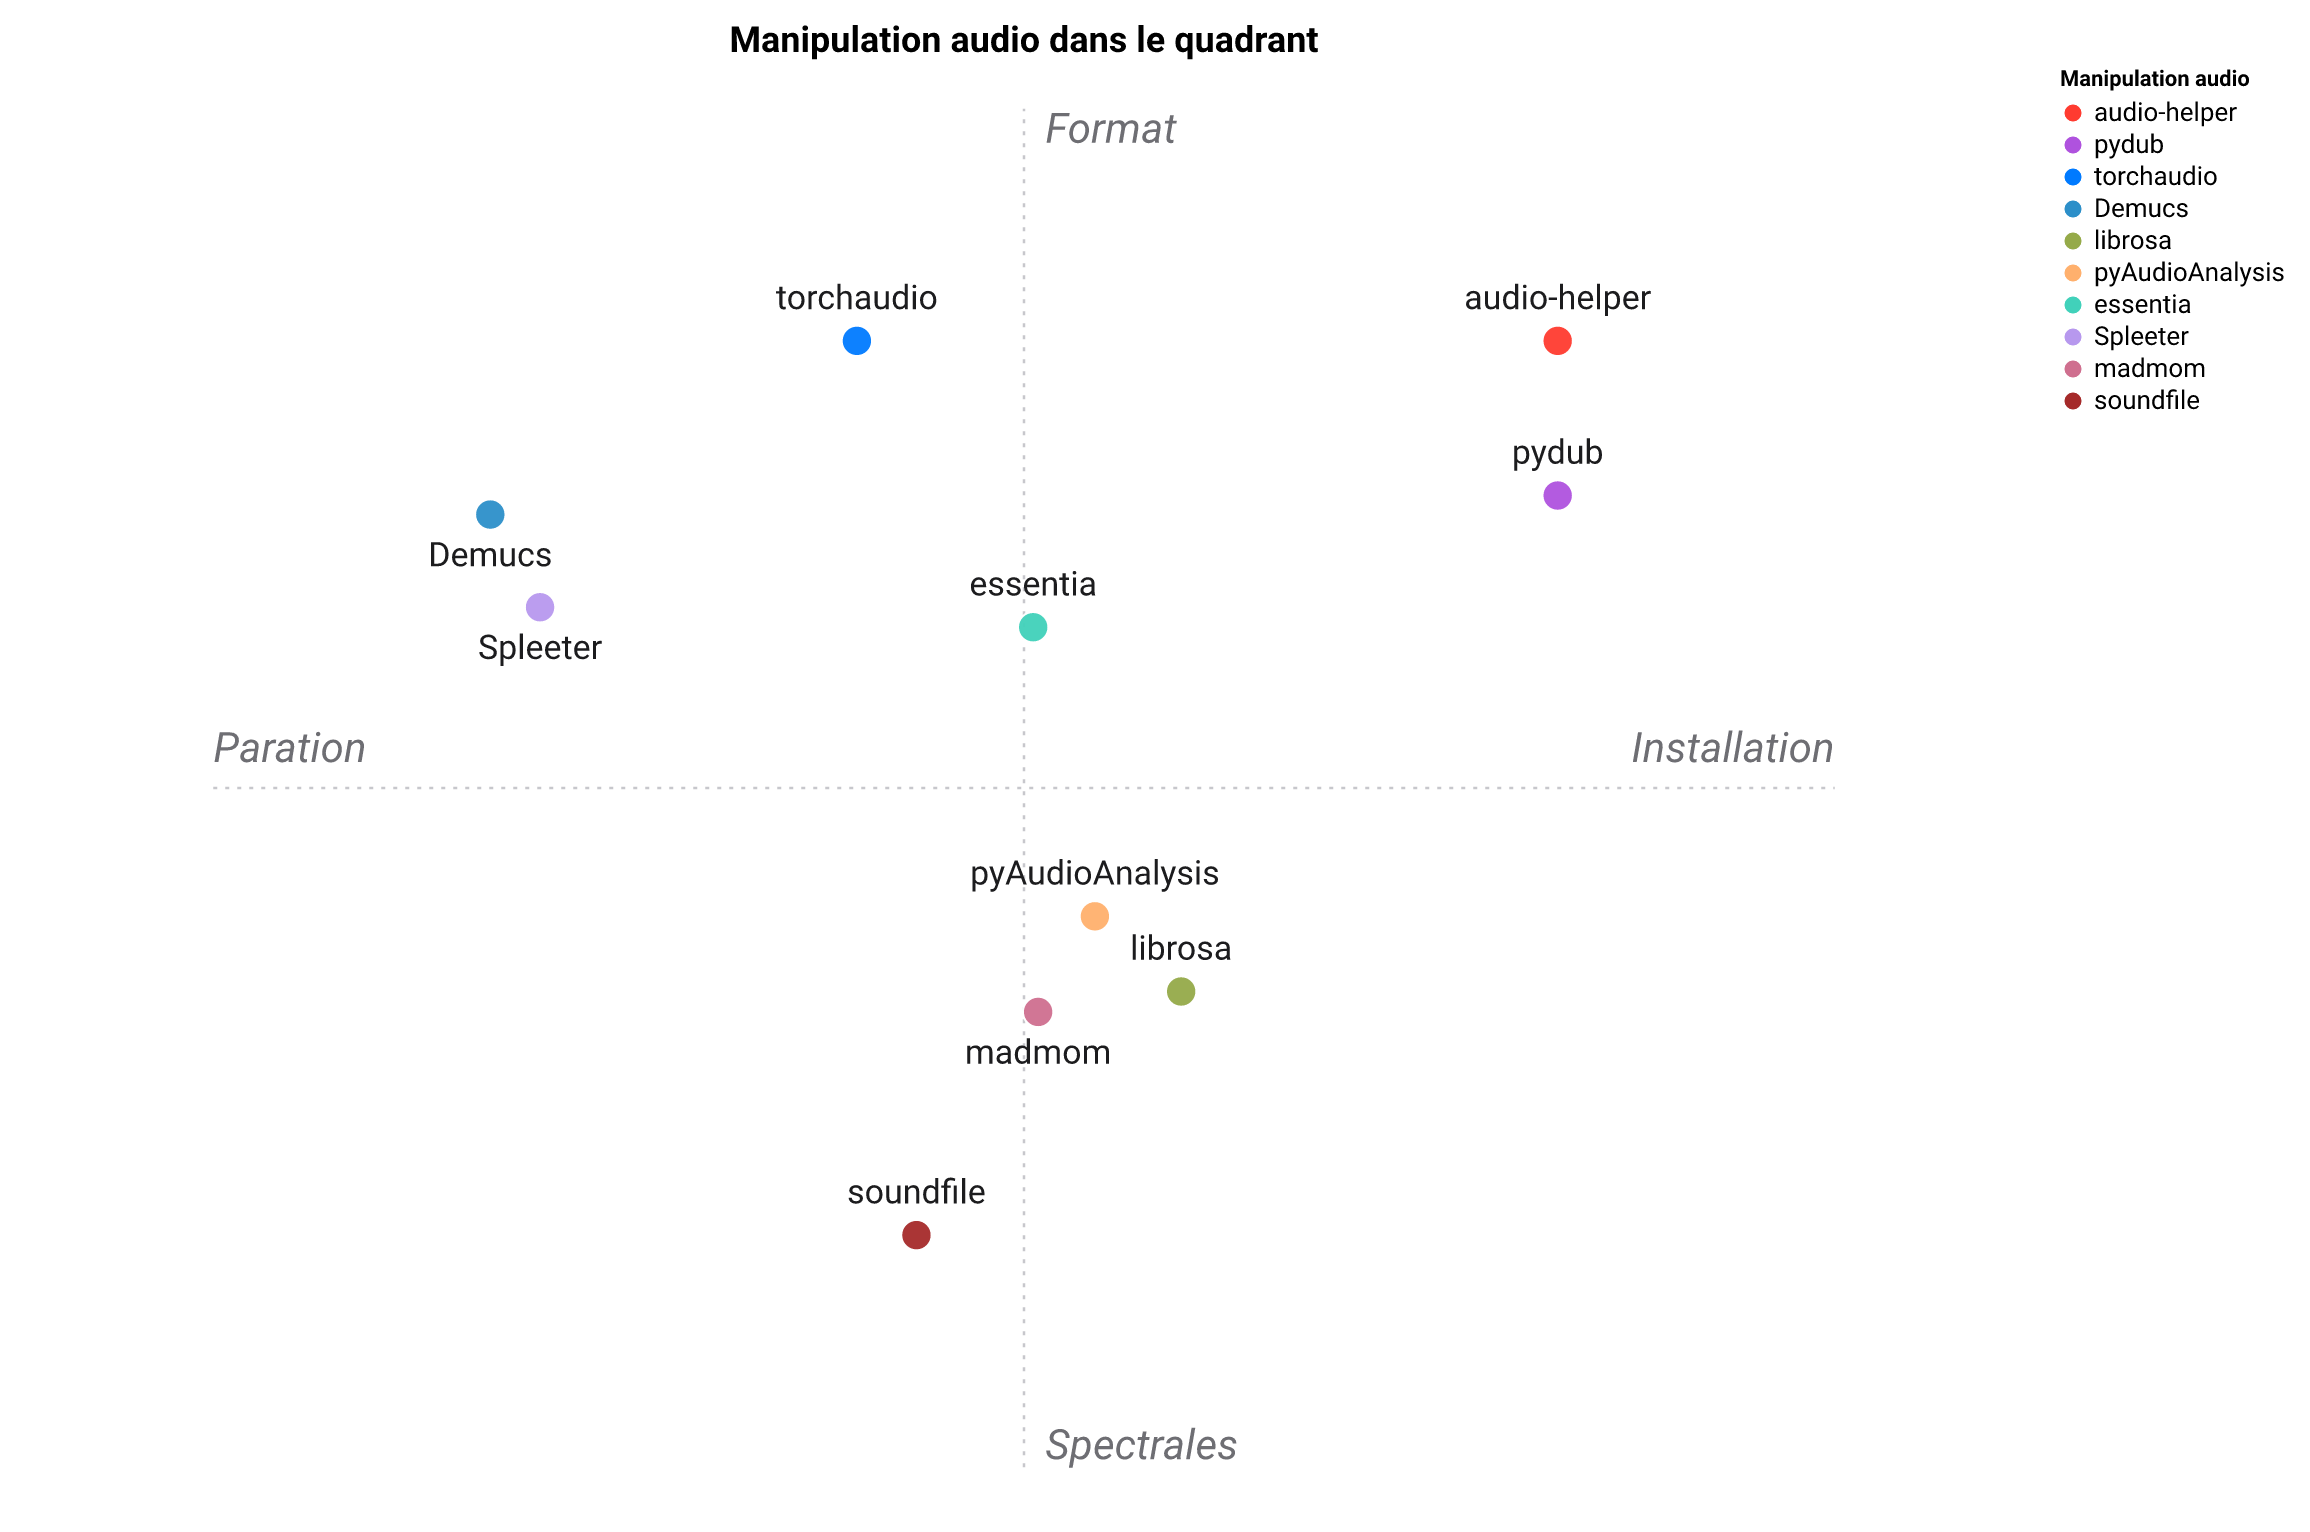
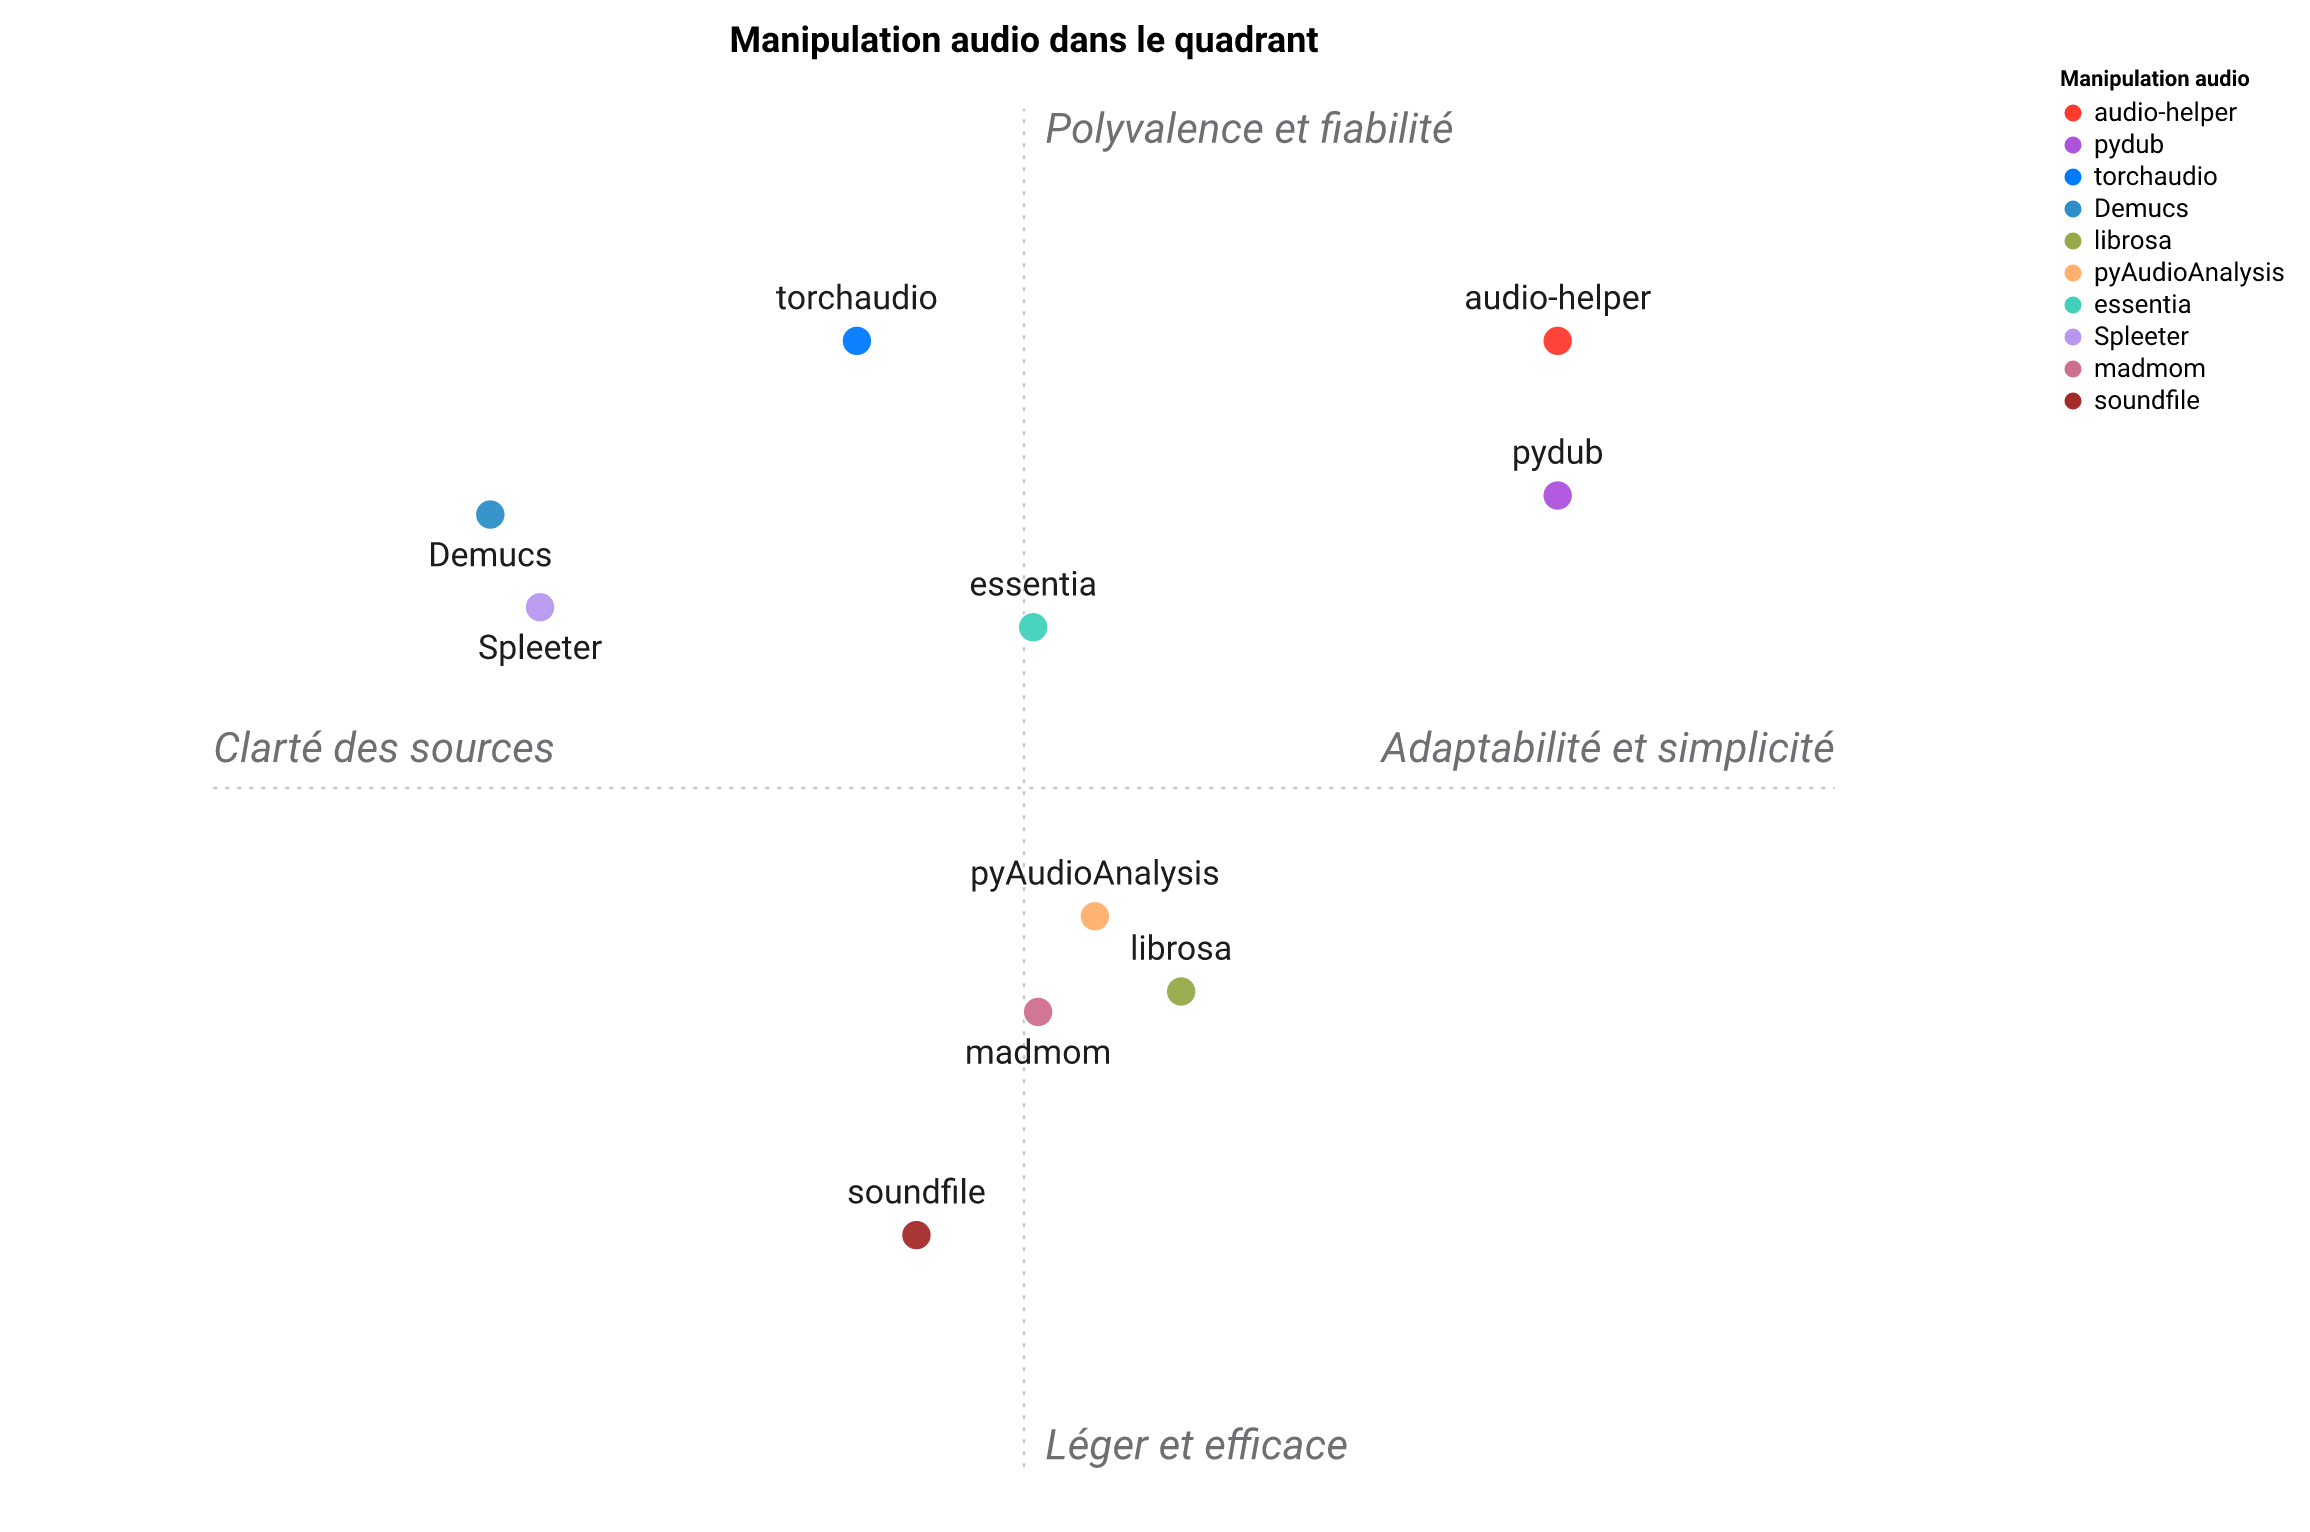
Landscape: CSV as source of truth; regenerate table/figure/commentary
- assets/landscape.csv & assets/paysage.csv are now the committed source of
  truth (integer ratings + domain label in the first cell). The star table, the
  positioning figure and the commentary in LANDSCAPE.md / PAYSAGE.md are
  regenerated from them by scripts/gen_landscape.py (standingpoint, LLM axis
  names), inside managed <!-- TABLE --> / <!-- FIGURE --> marker regions.
- Axis names use the LLM plain-word poles.

diff --git a/LANDSCAPE.md b/LANDSCAPE.md
@@ -12,6 +12,7 @@ is not penalised — the score just reflects fit to *this* niche.
 
 ## At a glance
 
+<!-- TABLE:START -->
 | Audio Wrangling | Multi-format I/O | Format conversion | Split / concat / silence | MFCC / spectral features | Source separation | Light install | AI-pipeline ergonomics |
 | --- | :---: | :---: | :---: | :---: | :---: | :---: | :---: |
 | **audio-helper** | ⭐⭐⭐⭐⭐ | ⭐⭐⭐⭐⭐ | ⭐⭐⭐⭐⭐ | ⭐⭐⭐ | ⭐⭐⭐⭐ | ⭐⭐⭐⭐⭐ | ⭐⭐⭐⭐⭐ |
@@ -24,14 +25,17 @@ is not penalised — the score just reflects fit to *this* niche.
 | madmom | ⭐⭐⭐ | ⭐⭐ | ⭐⭐⭐ | ⭐⭐⭐⭐⭐ | ⭐ | ⭐⭐⭐ | ⭐⭐ |
 | Demucs | ⭐⭐⭐ | ⭐⭐ | ⭐ | ⭐ | ⭐⭐⭐⭐⭐ | ⭐ | ⭐⭐ |
 | Spleeter | ⭐⭐⭐ | ⭐⭐ | ⭐ | ⭐ | ⭐⭐⭐⭐ | ⭐ | ⭐⭐ |
+<!-- TABLE:END -->
 
 ## Positioning map
 
+<!-- FIGURE:START -->
 2D representation of the table above.
 
 ![Positioning map](https://raw.githubusercontent.com/warith-harchaoui/audio-helper/main/assets/landscape.png)
 
-The map is a 2-D summary of the seven criteria, so read it as a shape, not a scoreboard. `audio-helper` is at the top-right corner. The axes read **Horizontal — Separation ↔ Install** and **Vertical — Spectral ↔ Format**.
+The map is a 2-D summary of the seven criteria, so read it as a shape, not a scoreboard. `audio-helper` is at the top-right corner. The axes read **Horizontal — Clarity ↔ Versatile** and **Vertical — Efficient ↔ Comprehensive**.
+<!-- FIGURE:END -->
 
 ## Positioning
 

diff --git a/PAYSAGE.md b/PAYSAGE.md
@@ -14,6 +14,7 @@ temps réel) n'est pas pénalisée — la note reflète seulement l'adéquation
 
 ## En un coup d'œil
 
+<!-- TABLE:START -->
 | Manipulation audio | E/S multi-format | Conversion de format | Découpage / concat / silence | Caractéristiques MFCC / spectrales | Séparation de sources | Installation légère | Ergonomie pipeline d'IA |
 | --- | :---: | :---: | :---: | :---: | :---: | :---: | :---: |
 | **audio-helper** | ⭐⭐⭐⭐⭐ | ⭐⭐⭐⭐⭐ | ⭐⭐⭐⭐⭐ | ⭐⭐⭐ | ⭐⭐⭐⭐ | ⭐⭐⭐⭐⭐ | ⭐⭐⭐⭐⭐ |
@@ -26,14 +27,17 @@ temps réel) n'est pas pénalisée — la note reflète seulement l'adéquation
 | madmom | ⭐⭐⭐ | ⭐⭐ | ⭐⭐⭐ | ⭐⭐⭐⭐⭐ | ⭐ | ⭐⭐⭐ | ⭐⭐ |
 | Demucs | ⭐⭐⭐ | ⭐⭐ | ⭐ | ⭐ | ⭐⭐⭐⭐⭐ | ⭐ | ⭐⭐ |
 | Spleeter | ⭐⭐⭐ | ⭐⭐ | ⭐ | ⭐ | ⭐⭐⭐⭐ | ⭐ | ⭐⭐ |
+<!-- TABLE:END -->
 
 ## Carte de positionnement
 
+<!-- FIGURE:START -->
 Représentation 2D du tableau ci-dessus.
 
 ![Carte de positionnement](https://raw.githubusercontent.com/warith-harchaoui/audio-helper/main/assets/paysage.png)
 
-La carte est un résumé en 2D des 7 critères : à lire comme une forme, pas comme un classement. « audio-helper » se situe dans le coin en haut à droite. Les axes se lisent **Horizontal — Paration ↔ Installation** et **Vertical — Spectrales ↔ Format**.
+La carte est un résumé en 2D des 7 critères : à lire comme une forme, pas comme un classement. « audio-helper » se situe dans le coin en haut à droite. Les axes se lisent **Horizontal — Clarté des sources ↔ Adaptabilité et simplicité** et **Vertical — Léger et efficace ↔ Polyvalence et fiabilité**.
+<!-- FIGURE:END -->
 
 ## Positionnement
 